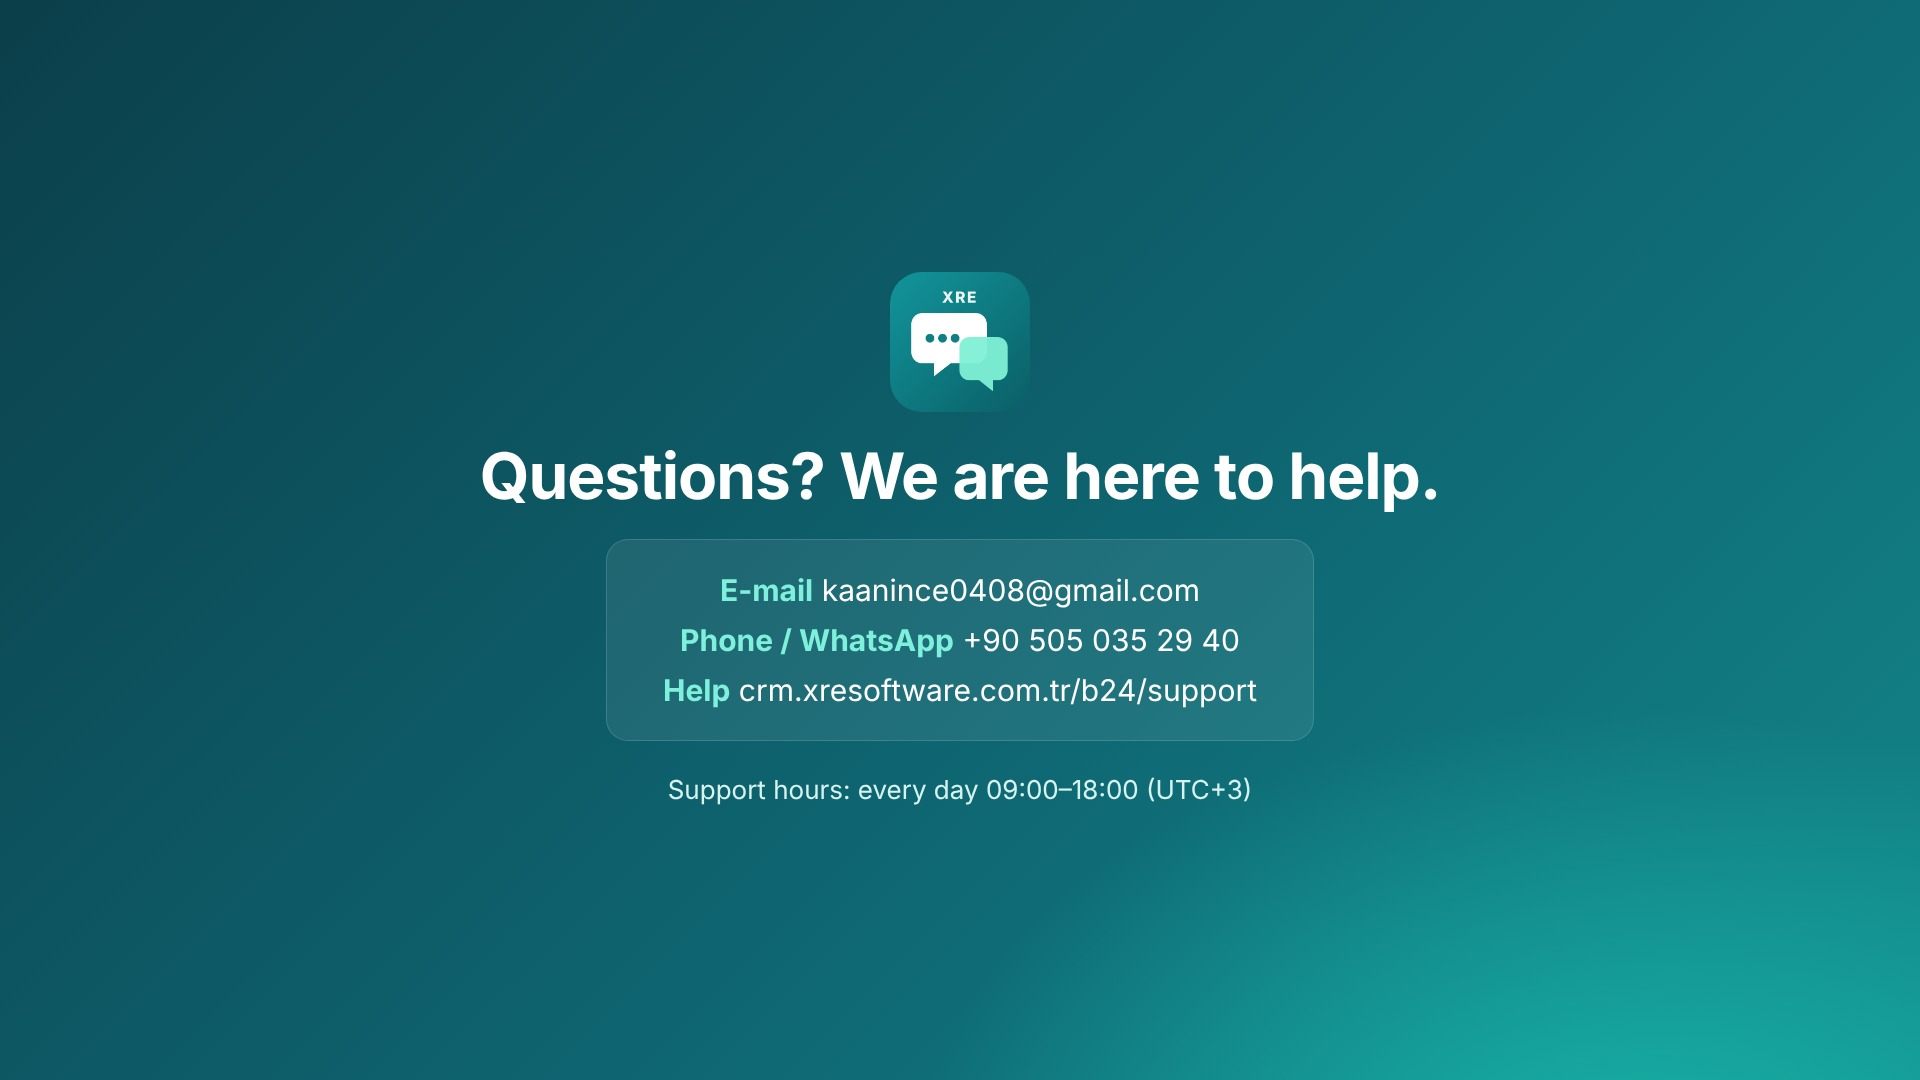
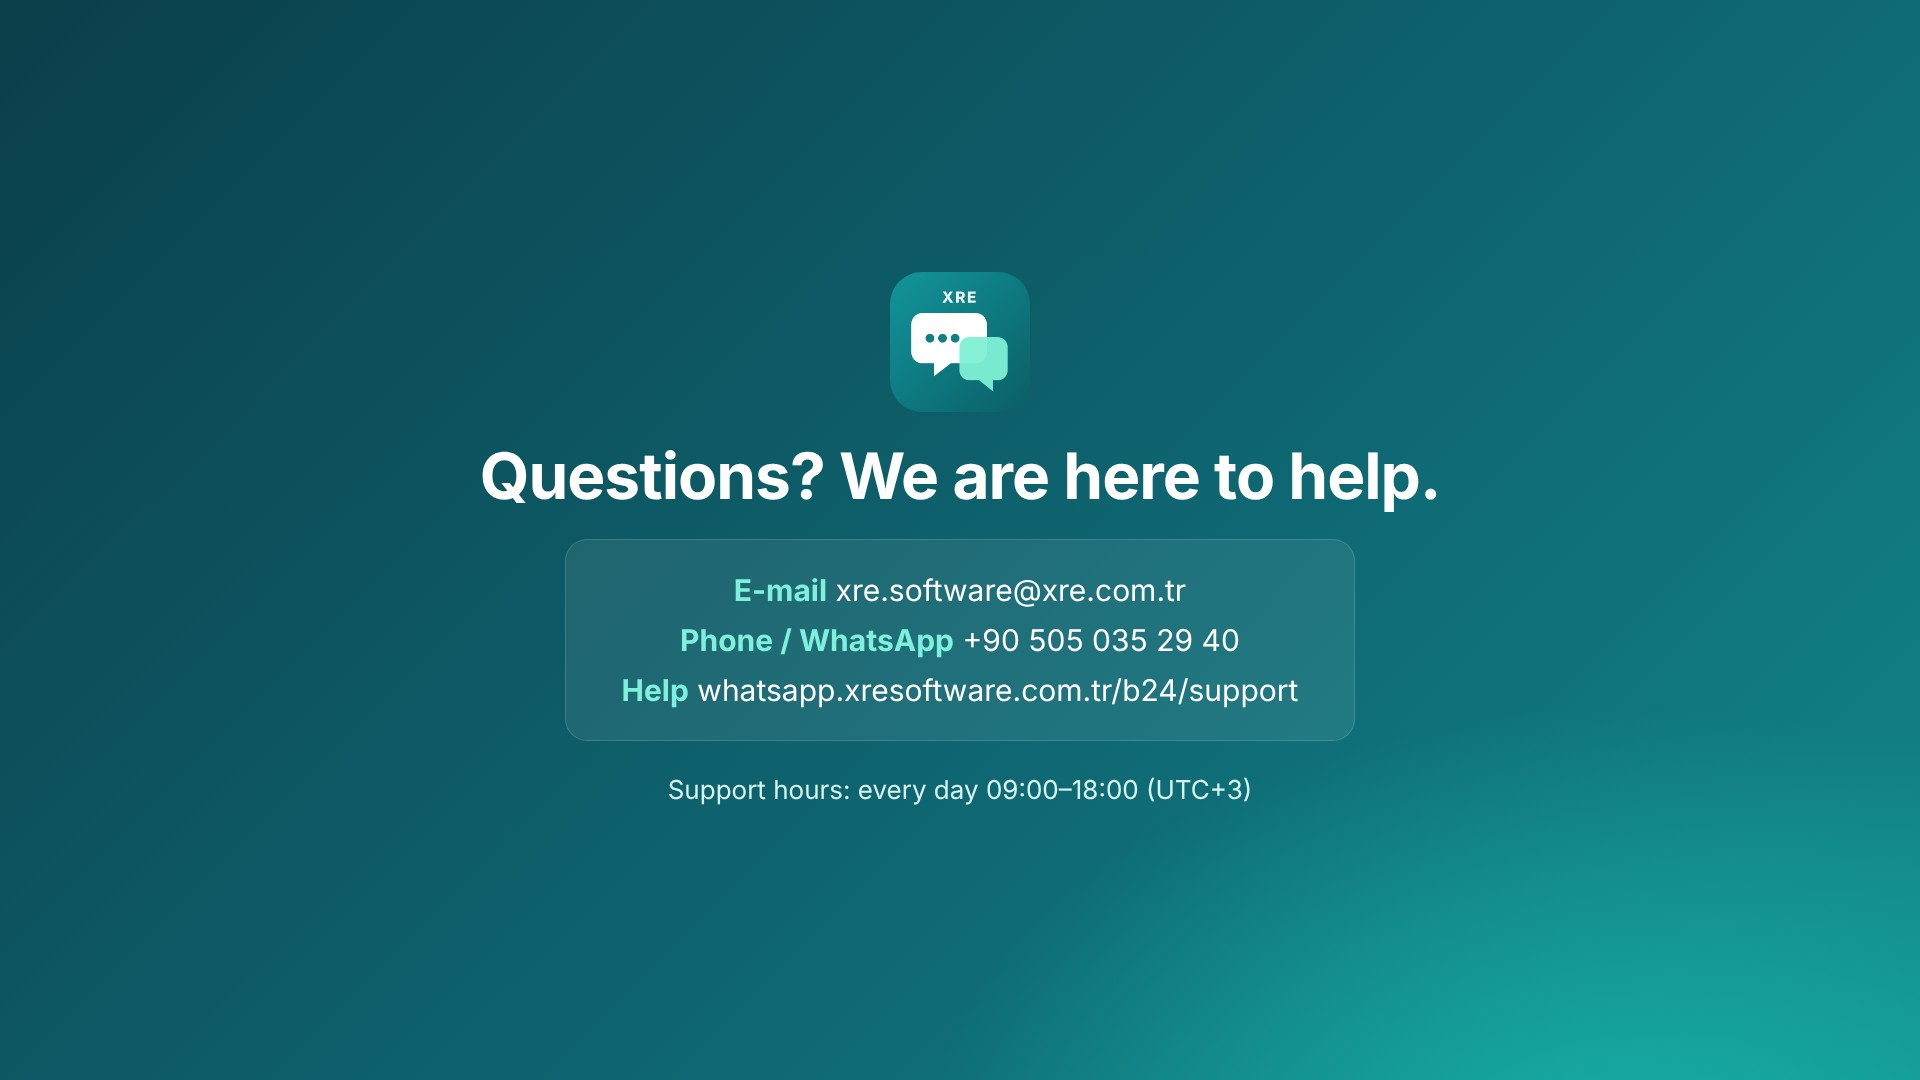
Destek e-postası .env'den değiştirilebilir; rehber ve video karesi güncellendi
- Bağımsız WhatsApp sunucusunda .env'de verilen ayar, CRM'den taşınan eski
  değerin önüne geçer (ör. B24_SUPPORT_EMAIL).
- Müşteri rehberindeki ve videonun kapanış karesindeki destek e-postası ile
  yardım adresi güncellendi.
- seslendir.py videoyu ve seslendirmeyi WhatsApp by XRE sunucusunda (xrecrm-wa)
  üretir ve yayınlar.

Claude-Session: https://claude.ai/code/session_016yQ8qtKHZ8RnCvtJTRQ7zR

Changed region(s): [[0.3125, 0.6111, 0.6875, 0.6722], [0.375, 0.5194, 0.625, 0.5806]]

diff --git a/xrecrm/server/integration-settings.ts b/xrecrm/server/integration-settings.ts
@@ -75,7 +75,8 @@ export const SETTINGS_ID = ID;
 export const CONNECTOR_SETTING_KEYS = SETTING_KEYS.filter((k) => k === "XRE_OPENAI_API_KEY" || k.startsWith("B24_"));
 export async function loadConnectorSettings(store: Store): Promise<number> {
   const stored = (await rawStoreOf(store).get<StoredSettings>(KIND, ID, CONNECTOR_SETTINGS_OWNER))?.payload;
-  const values = Object.fromEntries(Object.entries(stored?.values || {}).filter(([k]) => CONNECTOR_SETTING_KEYS.includes(k)));
+  // .env dosyasında verilen değer, CRM'den taşınan eski değerin önüne geçer.
+  const values = Object.fromEntries(Object.entries(stored?.values || {}).filter(([k]) => CONNECTOR_SETTING_KEYS.includes(k) && !process.env[k]?.trim()));
   applyValues(values);
   return Object.keys(values).length;
 }

diff --git a/xrecrm/docs/market/video/seslendir.py b/xrecrm/docs/market/video/seslendir.py
@@ -43,6 +43,10 @@ def find_container():
         names = sh(["docker", "ps", "--format", "{{.Names}}"]).splitlines()
     except Exception:
         return ""
+    # WhatsApp by XRE ayrı sunucudaysa video ve seslendirme orada.
+    for wanted in ("xrecrm-wa",):
+        if wanted in names:
+            return wanted
     for n in names:
         if n.endswith("-crm") or n.endswith("-crm-1") or n == "xrecrm-crm":
             return n

diff --git a/xrecrm/docs/market/AYIRMA.md b/xrecrm/docs/market/AYIRMA.md
@@ -52,7 +52,7 @@ Kendi portalınızdaki yerel uygulamanın (Geliştirici kaynakları → yerel uy
 - **WhatsApp bağlantıları kopmaz.** Telefonlarda yeniden QR okutmak gerekmez. Evolution yeniden başlarken bağlantılar birkaç saniye kopup geri gelir.
 - **Kısa bakım boşluğu:** Taşıma sırasındaki yaklaşık 20 saniyede gelen mesajlar kaybolabilir; bu yüzden sessiz bir saatte çalıştırın. Bu sürenin dışında CRM'e gelen Market olayları yeni sunucuya iletilir.
 - **OpenAI anahtarı ve Bitrix uygulama anahtarları** CRM ayarlarından kopyalanır. CRM'in diğer entegrasyon anahtarları (Meta, santral, n8n…) kopyalanmaz.
-- **Ayar değişikliği:** Bundan sonra OpenAI anahtarı gibi uygulama ayarlarını değiştirmek için sunucudaki `.env` dosyasına yazıp `kurulum.sh` çalıştırın.
+- **Ayar değişikliği:** Bundan sonra uygulama ayarlarını (OpenAI anahtarı, destek e-postası ve telefonu, satıcı adı…) değiştirmek için sunucudaki `.env` dosyasına yazıp `kurulum.sh` çalıştırın. `.env`'deki değer, CRM'den taşınan eski değerin önüne geçer. Örnek: `B24_SUPPORT_EMAIL=destek@firma.com`.
 
 ## Geri alma
 

diff --git a/xrecrm/docs/market/MUSTERI-REHBERI.md b/xrecrm/docs/market/MUSTERI-REHBERI.md
@@ -61,6 +61,6 @@ Başka bir yolla tahsilat yaptıysanız `/b24/admin` → **Lisans kodları**'nda
 
 ## Destek
 
-- E-posta: kaanince0408@gmail.com
+- E-posta: xre.software@xre.com.tr
 - Telefon / WhatsApp: +90 505 035 29 40
 - Yardım sayfası: https://whatsapp.xresoftware.com.tr/b24/support
